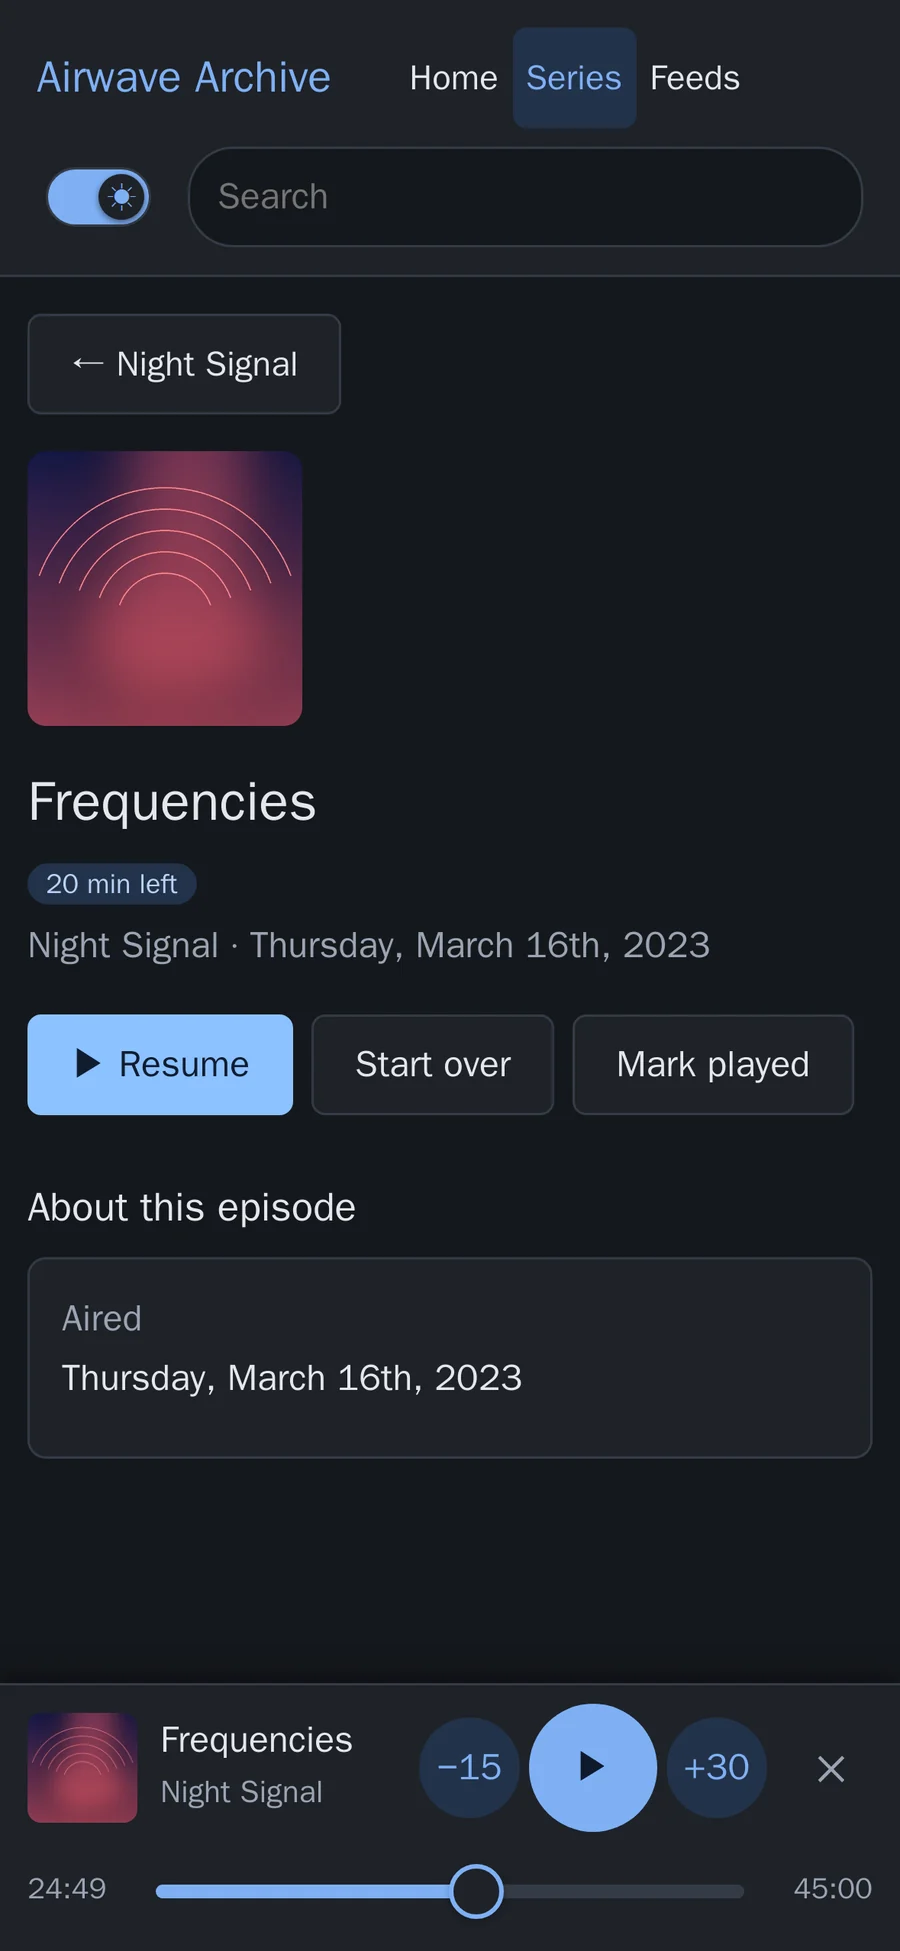
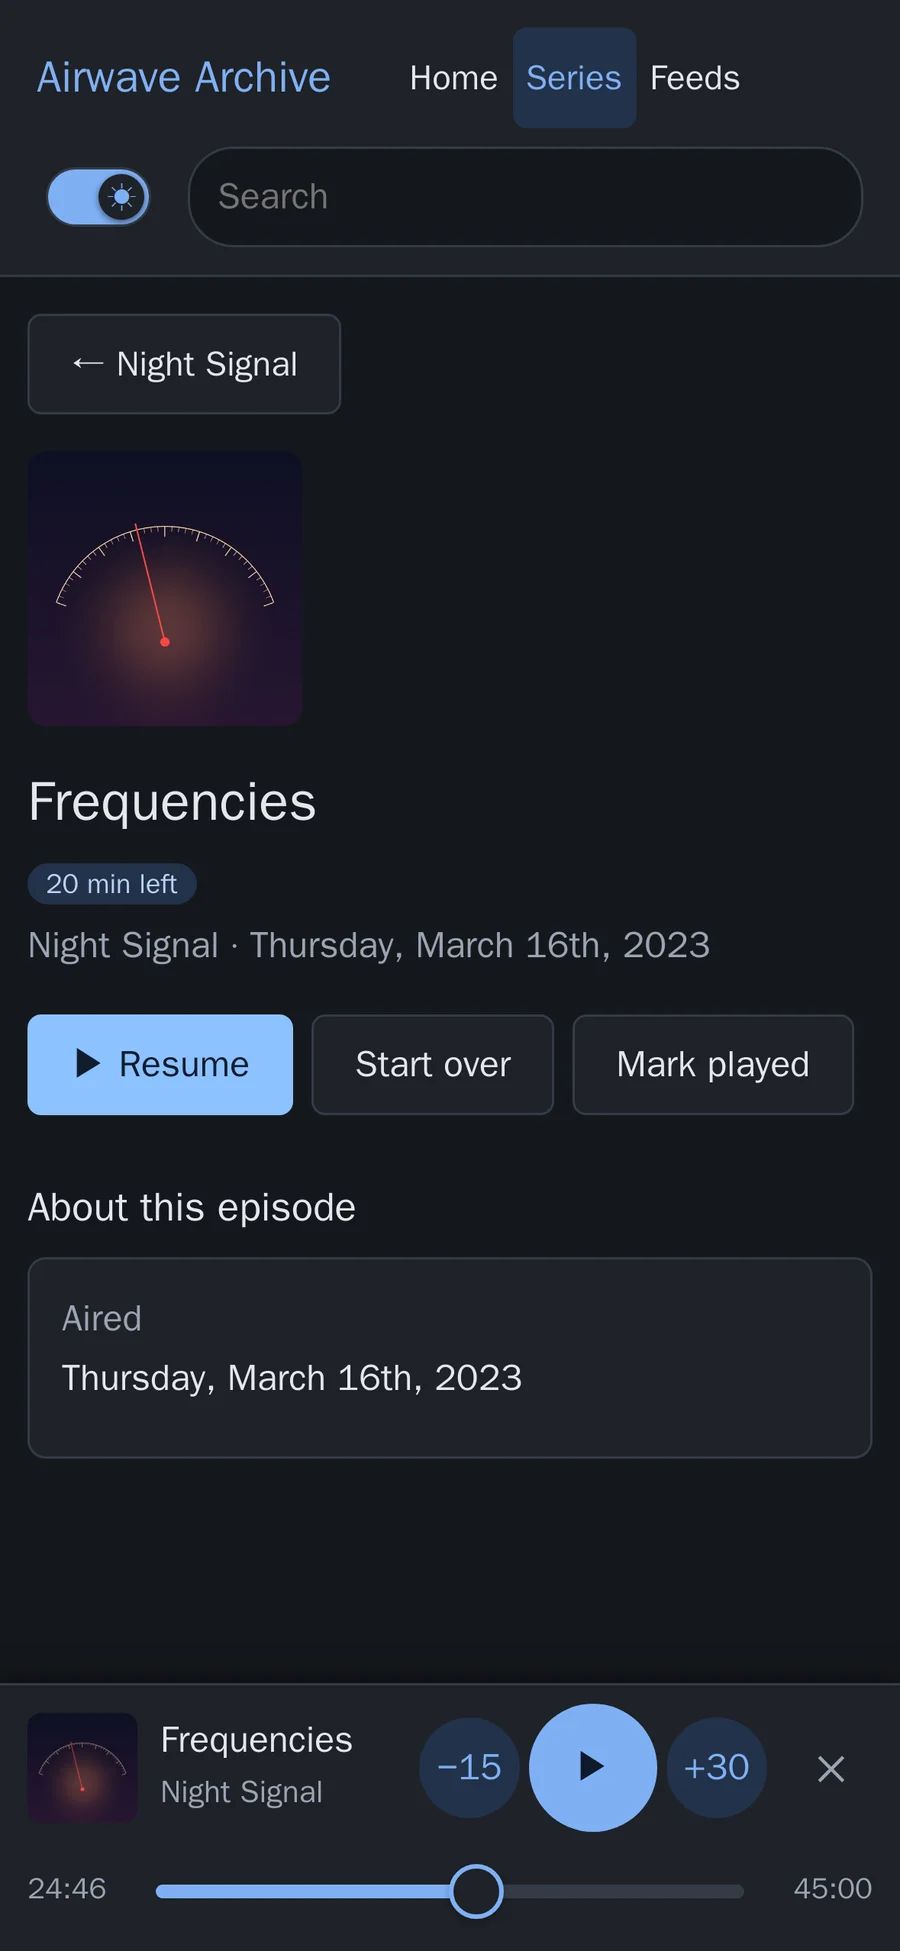
Series artwork: ten distinct covers, each a nod to old-time radio
A tuning dial, oscilloscope waves, a 1940s microphone, a lighthouse beam,
contour lines, a retro sunset, an aurora, a quiet moon, a ringed planet and
two overlapping circles. The screenshots are retaken exactly as before
(same pages, crops and sizes); the layout and text are unchanged.

Changed region(s): [[0.0311, 0.2153, 0.3422, 0.369], [0.0311, 0.8611, 0.1556, 0.9534]]

diff --git a/tools/make_covers.py b/tools/make_covers.py
@@ -1,0 +1,170 @@
+"""Ten distinct abstract covers for the invented demo series, each a nod to
+old-time radio. Drawn at double size, then scaled down for smooth edges."""
+import math, random, sys
+from pathlib import Path
+from PIL import Image, ImageDraw, ImageFilter
+
+OUT = Path(sys.argv[1]); OUT.mkdir(parents=True, exist_ok=True)
+N = 1800          # drawing size; saved at 900
+
+def gradient(top, bottom, size=N):
+    img = Image.new("RGB", (size, size), top)
+    d = ImageDraw.Draw(img)
+    for y in range(size):
+        t = y / (size - 1)
+        d.line([(0, y), (size, y)], fill=tuple(int(top[i] + (bottom[i] - top[i]) * t) for i in range(3)))
+    return img
+
+def glow(img, xy, r, colour, blur, strength=0.8):
+    layer = Image.new("RGB", img.size, (0, 0, 0))
+    ImageDraw.Draw(layer).ellipse([xy[0] - r, xy[1] - r, xy[0] + r, xy[1] + r], fill=colour)
+    layer = layer.filter(ImageFilter.GaussianBlur(blur))
+    mask = layer.convert("L").point(lambda v: int(v * strength))
+    return Image.composite(layer, img, mask)
+
+def save(img, name):
+    img.resize((900, 900), Image.LANCZOS).save(OUT / f"{name}.jpg", "JPEG", quality=90)
+
+# 1. Night Signal: a glowing tuning dial with a red needle.
+img = gradient((14, 16, 38), (40, 22, 52))
+img = glow(img, (900, 1150), 520, (255, 150, 90), 260, 0.55)
+d = ImageDraw.Draw(img)
+cx, cy, R = 900, 1250, 760
+d.arc([cx - R, cy - R, cx + R, cy + R], 200, 340, fill=(255, 214, 170), width=6)
+for k in range(41):
+    a = math.radians(200 + k * 140 / 40)
+    long = k % 5 == 0
+    r1, r2 = R - (70 if long else 36), R - 6
+    d.line([(cx + r1 * math.cos(a), cy + r1 * math.sin(a)), (cx + r2 * math.cos(a), cy + r2 * math.sin(a))],
+           fill=(255, 214, 170), width=6 if long else 3)
+a = math.radians(256)
+d.line([(cx, cy), (cx + (R + 40) * math.cos(a), cy + (R + 40) * math.sin(a))], fill=(255, 70, 70), width=10)
+d.ellipse([cx - 30, cy - 30, cx + 30, cy + 30], fill=(255, 70, 70))
+save(img, "Night Signal")
+
+# 2. The Long Wave: stacked sine waves, like an oscilloscope.
+img = gradient((6, 34, 44), (4, 18, 26))
+d = ImageDraw.Draw(img)
+for row in range(14):
+    y0 = 300 + row * 92
+    amp = 30 + 90 * math.sin(math.pi * row / 13)
+    freq = 2.2 + row * 0.12
+    pts = [(x, y0 + amp * math.sin(2 * math.pi * freq * x / N + row * 0.6) * math.sin(math.pi * x / N)) for x in range(0, N + 1, 6)]
+    shade = 120 + int(120 * math.sin(math.pi * row / 13))
+    d.line(pts, fill=(60, shade, min(255, shade + 30)), width=5)
+save(img.filter(ImageFilter.GaussianBlur(0.6)), "The Long Wave")
+
+# 3. Studio Nine Sessions: a 1940s studio microphone, as simple shapes.
+img = gradient((52, 22, 60), (28, 12, 34))
+img = glow(img, (900, 800), 600, (255, 170, 60), 300, 0.45)
+d = ImageDraw.Draw(img)
+d.rounded_rectangle([640, 300, 1160, 1120], radius=260, fill=(240, 196, 110))
+for y in range(400, 1040, 34):
+    d.line([(700, y), (1100, y)], fill=(150, 100, 50), width=8)
+d.rounded_rectangle([620, 650, 1180, 760], radius=30, fill=(200, 150, 80))
+d.rectangle([870, 1120, 930, 1450], fill=(200, 150, 80))
+d.rounded_rectangle([640, 1440, 1160, 1500], radius=30, fill=(200, 150, 80))
+save(img, "Studio Nine Sessions")
+
+# 4. Harbor Lights: a lighthouse beam over a dark sea.
+img = gradient((10, 20, 44), (30, 52, 92))
+beam = Image.new("L", (N, N), 0)
+ImageDraw.Draw(beam).polygon([(520, 700), (N + 400, 250), (N + 400, 1050)], fill=200)
+beam = beam.filter(ImageFilter.GaussianBlur(60))
+img = Image.composite(Image.new("RGB", (N, N), (255, 236, 180)), img, beam.point(lambda v: int(v * 0.55)))
+d = ImageDraw.Draw(img)
+d.rectangle([0, 1250, N, N], fill=(8, 16, 34))
+for k in range(9):
+    y = 1300 + k * 52
+    d.line([(0, y), (N, y)], fill=(30 + k * 4, 56 + k * 4, 96 + k * 3), width=4)
+d.polygon([(470, 1250), (570, 1250), (545, 760), (495, 760)], fill=(225, 225, 230))
+d.rectangle([480, 700, 560, 760], fill=(255, 220, 140))
+d.polygon([(470, 700), (570, 700), (520, 640)], fill=(200, 60, 60))
+img = glow(img, (520, 730), 70, (255, 230, 150), 40, 0.9)
+save(img, "Harbor Lights")
+
+# 5. Field Notes: topographic contour lines.
+img = gradient((226, 236, 200), (190, 214, 160))
+d = ImageDraw.Draw(img)
+rnd = random.Random(5)
+for cx, cy, n in [(650, 700, 13), (1250, 1200, 10)]:
+    for k in range(n, 0, -1):
+        r = k * 52
+        pts = []
+        for s in range(0, 361, 4):
+            a = math.radians(s)
+            wob = 1 + 0.12 * math.sin(3 * a + k) + 0.06 * math.sin(5 * a + cx)
+            pts.append((cx + r * wob * math.cos(a), cy + r * 0.82 * wob * math.sin(a)))
+        d.line(pts, fill=(60, 110, 60) if k % 4 else (30, 80, 40), width=5 if k % 4 else 8)
+save(img, "Field Notes")
+
+# 6. Low Tide: a retro poster, a big sun setting over striped waves.
+img = Image.new("RGB", (N, N), (255, 226, 190))
+d = ImageDraw.Draw(img)
+d.ellipse([400, 520, 1400, 1520], fill=(250, 110, 80))
+d.rectangle([0, 1020, N, N], fill=(255, 226, 190))
+colours = [(250, 140, 100), (244, 170, 120), (236, 196, 150), (226, 214, 180)]
+for k in range(8):
+    y = 1060 + k * 92
+    pts = [(x, y + 18 * math.sin(2 * math.pi * x / 360 + k)) for x in range(0, N + 1, 8)]
+    d.line(pts, fill=colours[k % 4], width=40)
+save(img, "Low Tide")
+
+# 7. Northern Lines: aurora curtains over one horizon line.
+img = gradient((6, 8, 24), (24, 18, 60))
+rnd = random.Random(7)
+d = ImageDraw.Draw(img)
+for _ in range(220):
+    x, y, s = rnd.randint(0, N), rnd.randint(0, 900), rnd.choice([2, 3, 4])
+    d.ellipse([x, y, x + s, y + s], fill=(220, 220, 255))
+from PIL import ImageChops
+for width, blur in ((190, 70), (46, 18)):           # a wide soft glow, then a brighter core
+    aur = Image.new("RGB", (N, N), (0, 0, 0))
+    a = ImageDraw.Draw(aur)
+    for k, col in enumerate([(70, 255, 160), (110, 150, 255), (200, 110, 255)]):
+        pts = [(x, 560 + k * 170 + 150 * math.sin(x / 240 + k * 1.9)) for x in range(-40, N + 41, 8)]
+        a.line(pts, fill=col, width=width)
+    img = ImageChops.screen(img, aur.filter(ImageFilter.GaussianBlur(blur)))
+d = ImageDraw.Draw(img)
+d.rectangle([0, 1380, N, N], fill=(8, 8, 20))
+d.line([(0, 1380), (N, 1380)], fill=(170, 160, 255), width=4)
+save(img, "Northern Lines")
+
+# 8. The Quiet Hour: almost empty, a small moon and a hairline horizon.
+img = gradient((238, 234, 226), (214, 210, 204))
+d = ImageDraw.Draw(img)
+d.ellipse([1180, 430, 1330, 580], fill=(150, 160, 175))
+d.line([(260, 1240), (N - 260, 1240)], fill=(140, 140, 150), width=4)
+save(img, "The Quiet Hour")
+
+# 9. Parallax: a ringed planet in a field of stars.
+img = gradient((2, 4, 14), (6, 20, 40))
+d = ImageDraw.Draw(img)
+rnd = random.Random(9)
+for _ in range(300):
+    x, y, s = rnd.randint(0, N), rnd.randint(0, N), rnd.choice([2, 3, 3, 5])
+    d.ellipse([x, y, x + s, y + s], fill=(200, 230, 255))
+img = glow(img, (900, 900), 420, (0, 160, 255), 180, 0.5)
+planet = gradient((40, 220, 255), (0, 60, 120))
+mask = Image.new("L", (N, N), 0)
+ImageDraw.Draw(mask).ellipse([620, 620, 1180, 1180], fill=255)
+ring = Image.new("L", (N, N), 0)
+r = ImageDraw.Draw(ring)
+r.ellipse([300, 800, 1500, 1000], outline=255, width=26)
+back = ring.copy(); ImageDraw.Draw(back).rectangle([0, 0, N, 900], fill=0)
+front = ring.copy(); ImageDraw.Draw(front).rectangle([0, 900, N, N], fill=0)
+img = Image.composite(Image.new("RGB", (N, N), (170, 230, 255)), img, back)
+img = Image.composite(planet, img, mask)
+img = Image.composite(Image.new("RGB", (N, N), (170, 230, 255)), img, front)
+save(img, "Parallax")
+
+# 10. Common Ground: two overlapping circles, like a conversation.
+img = Image.new("RGB", (N, N), (248, 238, 226))
+left = Image.new("L", (N, N), 0); ImageDraw.Draw(left).ellipse([300, 500, 1100, 1300], fill=255)
+right = Image.new("L", (N, N), 0); ImageDraw.Draw(right).ellipse([700, 500, 1500, 1300], fill=255)
+img = Image.composite(Image.new("RGB", (N, N), (226, 96, 70)), img, left)
+img = Image.composite(Image.new("RGB", (N, N), (246, 170, 90)), img, right)
+both = Image.new("L", (N, N), 0); both.paste(255, mask=Image.composite(left, Image.new("L", (N, N), 0), right))
+img = Image.composite(Image.new("RGB", (N, N), (150, 46, 40)), img, both)
+save(img, "Common Ground")
+print("ok")

diff --git a/tools/README.md b/tools/README.md
@@ -5,6 +5,10 @@ filled with **invented** series (abstract generated artwork, silent audio).
 
 1. `make_demo.py` builds the demo library and three messy inbox files. Run it
    inside the app's Docker image (it has ffmpeg and Pillow).
+   `make_covers.py` then draws the ten series' covers (each its own idea, a
+   nod to old-time radio: a tuning dial, sound waves, a studio microphone, a
+   lighthouse…); they replace each series folder's `cover.jpg`, and the app
+   is rescanned.
 2. Start a throwaway copy of the app on port 8090 with that library, its own
    data folder and inbox. Give the series genres, start a few episodes, mark
    some played, and make and publish a feed for "Night Signal". For the
